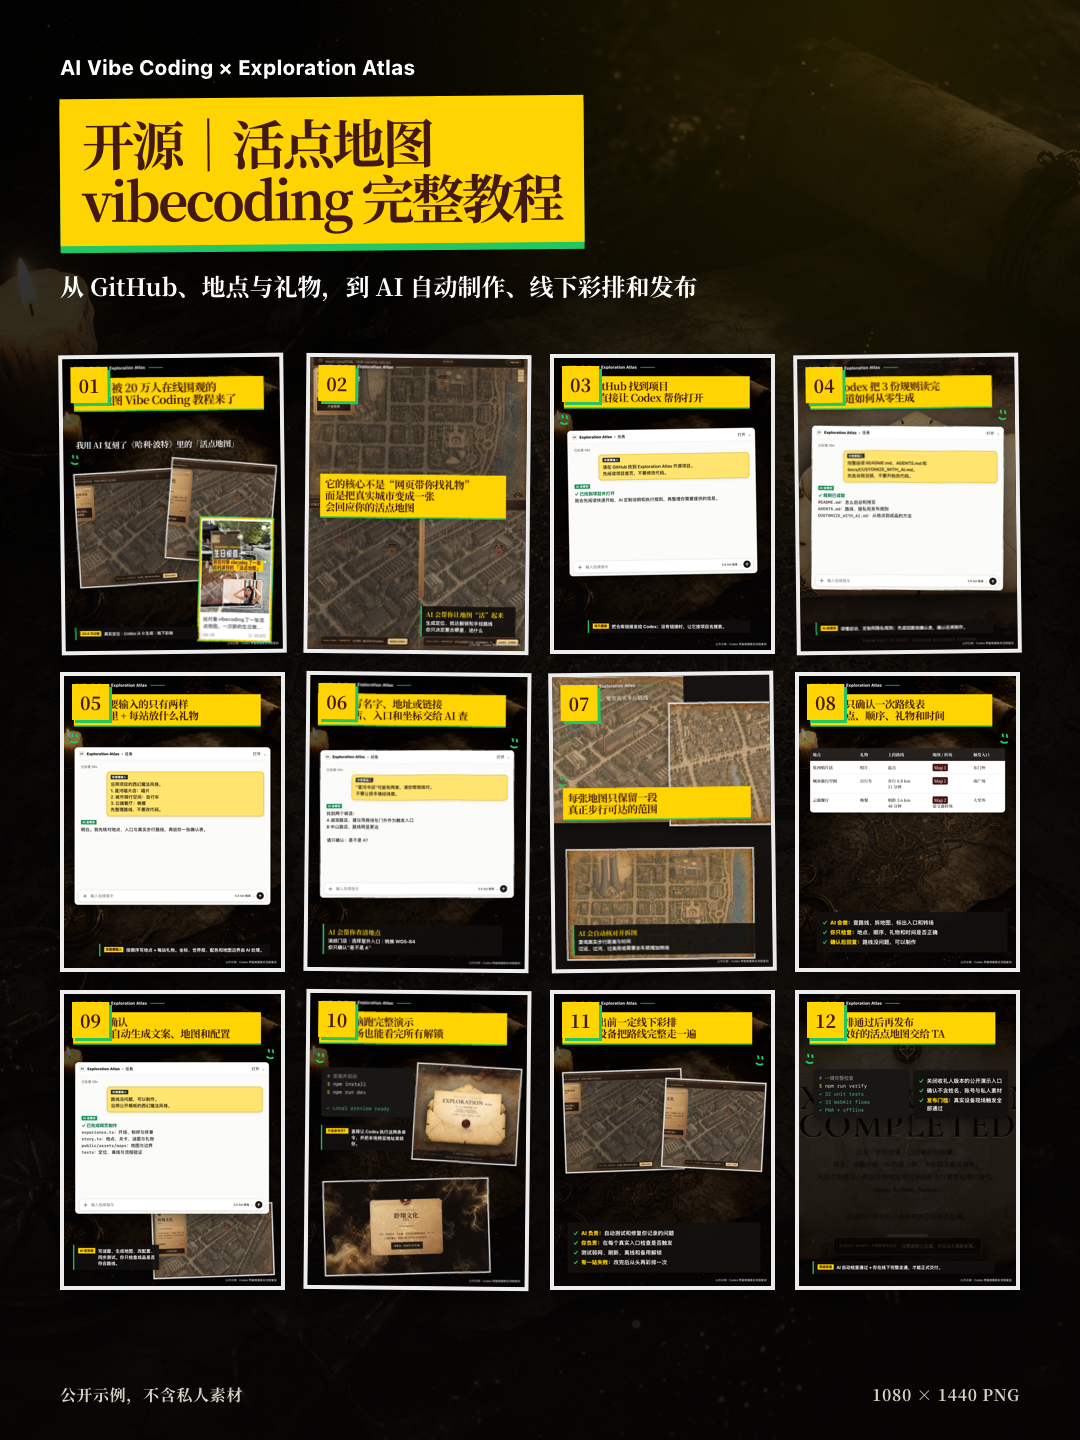
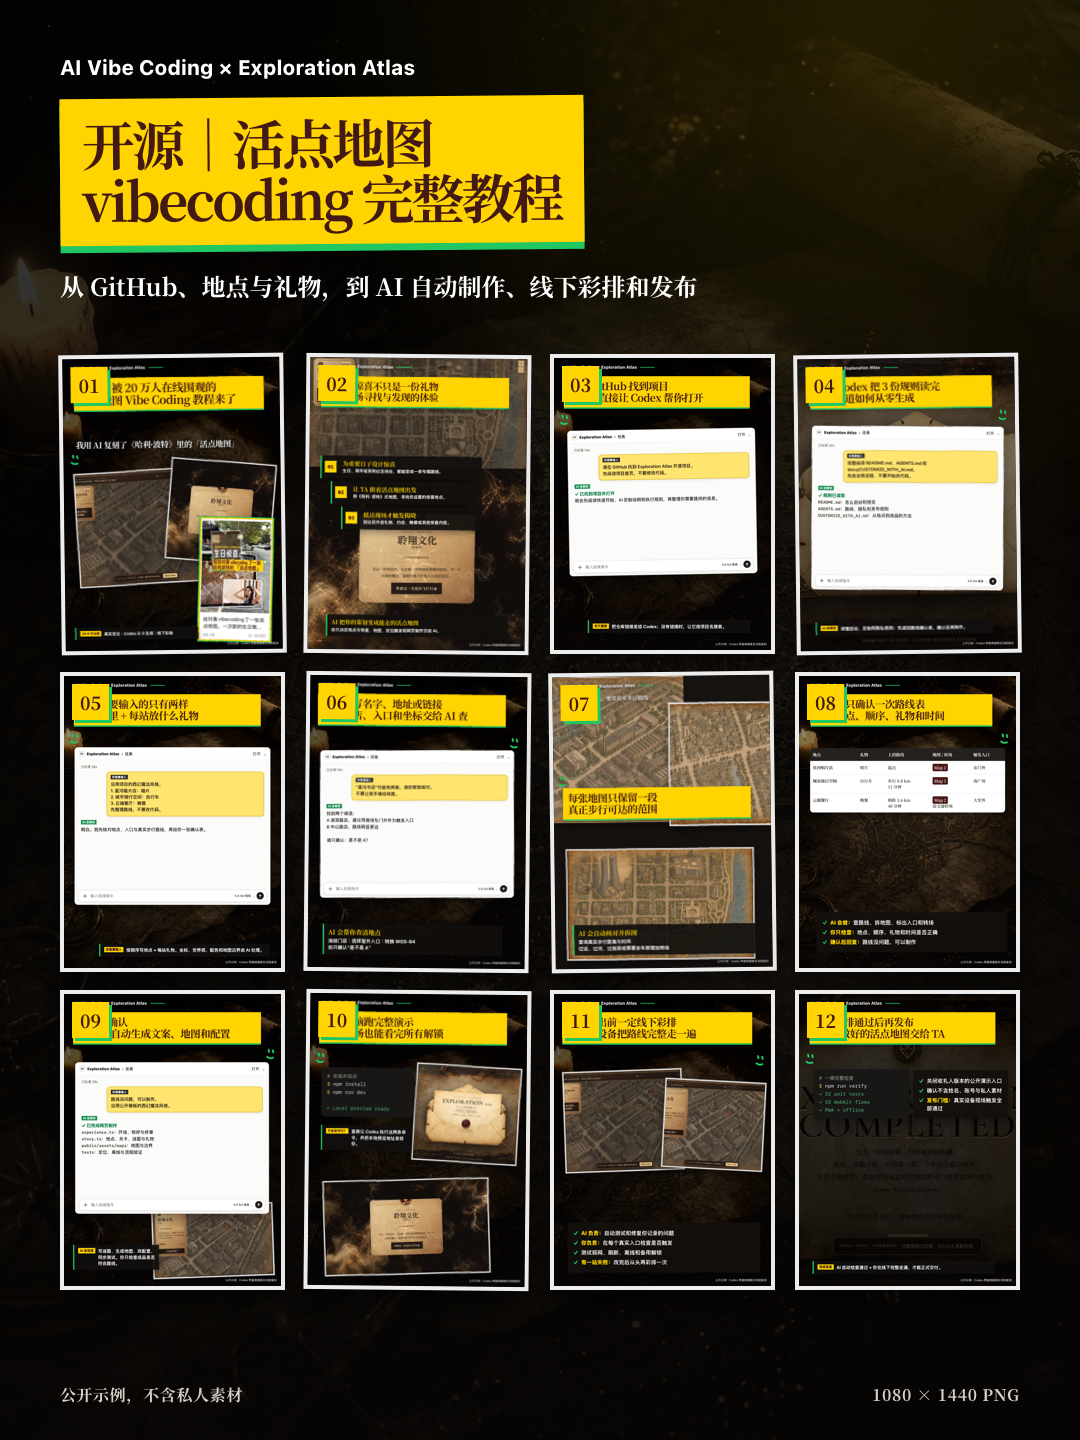
Clarify the anniversary surprise experience

Changed region(s): [[0.1528, 0.25, 0.4889, 0.4688]]

diff --git a/docs/AI_VIBE_CODING_TUTORIAL.md b/docs/AI_VIBE_CODING_TUTORIAL.md
@@ -18,11 +18,11 @@
 
 ![开源活点地图教程封面](tutorial/01-cover.png)
 
-## 02｜理解项目真正的核心
+## 02｜理解它能带来什么
 
 ![活点地图核心能力](tutorial/02-living-map-core.png)
 
-它不是普通的电子请柬，而是把真实城市变成一张会随位置变化、抵达后才揭晓内容的西幻活点地图。
+它是一种纪念日惊喜策划方式：生日、周年或其他重要日子都可以使用。TA 会跟着《哈利·波特》式活点地图寻找你设置的地点，抵达后才触发礼物、约会、晚餐或其他惊喜内容，在当天完整经历寻找、抵达和发现。
 
 ## 03｜在 GitHub 找到项目
 
